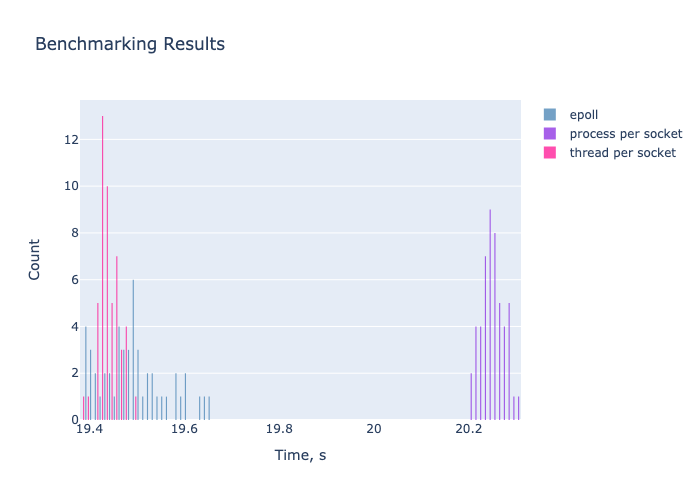
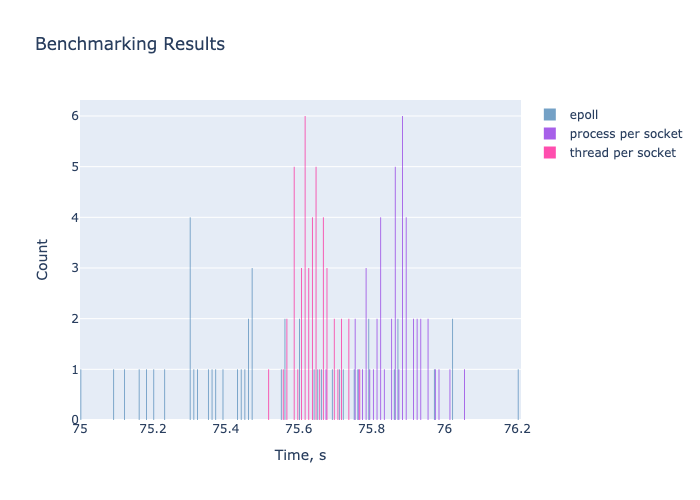
Updated plots and fixed plotting.

diff --git a/results-processing/process_results.py b/results-processing/process_results.py
@@ -6,7 +6,7 @@ import plotly.express as px
 import plotly.graph_objects as go
 from delete_outliers import delete_outliers, adjust_length
 
-NUMBER_OF_PARAMETER_ROWS = 11
+NUMBER_OF_PARAMETER_ROWS = 0
 NUMBER_OF_WARNING_ROWS = 1
 NUMBER_Of_SKIP_ROWS = 5
 
@@ -61,13 +61,14 @@ if __name__ == "__main__":
     thread_fig.write_image("result-plots/thread-distribution.png")
 
     # Three crawlers together on one plot
+    max_val = max(max(epoll_data), max(process_data), max(thread_data)) + 3
     fig = go.Figure()
     fig.add_trace(go.Histogram(
         x=epoll_data,
         name='epoll',
         xbins=dict(
             start=0,
-            end=30,
+            end=max_val,
             size=0.01,
         ),
         autobinx=False,
@@ -79,7 +80,7 @@ if __name__ == "__main__":
         name='process per socket',
         xbins=dict(
             start=0,
-            end=30,
+            end=max_val,
             size=0.01,
         ),
         autobinx=False,
@@ -91,7 +92,7 @@ if __name__ == "__main__":
         name='thread per socket',
         xbins=dict(
             start=0,
-            end=30,
+            end=max_val,
             size=0.01,
         ),
         autobinx=False,
